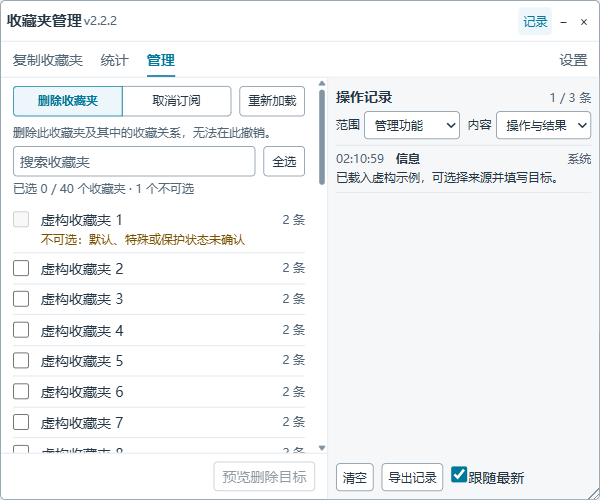
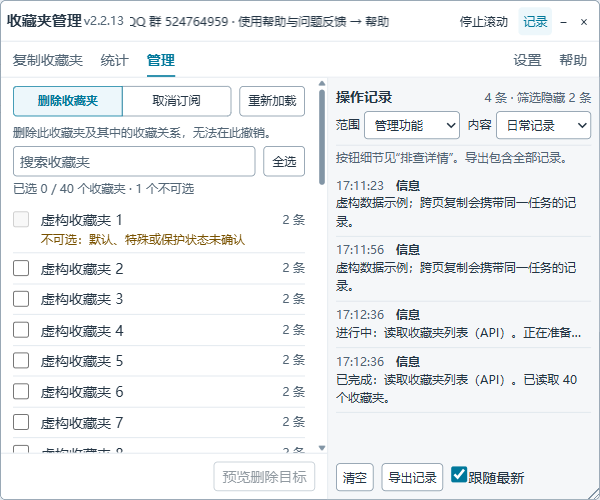
docs: prepare 2.2.13 release notes and refresh fictional previews

diff --git a/CHANGELOG.md b/CHANGELOG.md
@@ -1,40 +1,21 @@
 # 更新日志
 
-## 2.2.13（本地开发版，未发布）
+## 2.2.13
 
-- 顶部提示条按钮改为“停止滚动 / 继续滚动”，无障碍说明明确其控制顶部提示。
-- 更新贡献指南：从 develop 开发与提交 PR，说明产品提交的发布选择、验证步骤和真实账号测试边界。
+本次整合 2.1.2 之后的产品改进；中间本地迭代未单独发布。线上可安装版本以 Greasy Fork 页面为准。
 
-## 2.2.12（本地开发版，未发布）
+- 增加所选收藏夹/订阅的统计，包含视频名称、链接、作者、时长、重复次数与来源收藏夹；明细可搜索、分页并导出完整已读结果。
+- 支持网页逐页统计或 API 读取；显示覆盖范围、已读数量与平台标称总数的差异，单夹不可读仍继续其他选中项。
+- 增加删除收藏夹和取消订阅，按类型与 ID 核对目标，逐项执行；一次性预览与确认，失败或结果未知时停止。支持身份可确认的失效订阅，重名条目显示标识。
+- 重构紧凑面板：复制、统计、管理、设置、帮助分别展示；统一搜索、全选和计数，保留独立选择与滚动位置。设置切换方式保留已加载列表，重新确认管理目标。
+- 列表/统计、复制、创建和管理可分别选择网页或 API；任务固定所选方式，不自动切换或重试。
+- 跨页复制保留任务关联与操作记录，刷新后保留同标签页/账号的记录；日常记录与排查详情分开，导出包含全部保留记录。
+- 修复旧版复制成功提示识别、原生删除菜单、空收藏夹新建入口、订阅列表自动展开/分页、新版总页数识别与分页内容等待。
+- 自己的空间、未登录及未知来源禁用复制，执行层同步检查；阻止重复任务、并发和账号/空间/来源变化后的继续提交。
+- 修复窗口缩放与最小化恢复，增加 QQ 群提示和帮助；顶部提示使用“停止滚动 / 继续滚动”，支持悬停、聚焦暂停及减少动态效果。
+- 更新开发贡献与发布流程，产品源码、测试及构建产物一起交付。
 
-- 自己的空间、未登录及未知来源禁用复制，执行层同步校验；阻止重复任务、并发和账号/空间/来源变化后的继续提交，保留跨页目标准备。
-- 顶部 QQ 群提示支持暂停与减少动态效果，增加第五个“帮助”面板。
-- 统计保留视频名称、链接、作者、时长、出现次数与来源收藏夹；明细可搜索并分页，导出完整已读结果。
-- 网页统计和复制共用旧版/新版分页，修复新版数字总页数识别、从中间页开始以及页码先于内容更新的问题。
-- 平台标称总数与实际返回不同时明确展示差额；单个收藏夹不可读仍统计其他选中项。
-- 149 项测试与构建通过；新版真实账号仅做只读验证，旧版真实操作及油猴沙箱仍未验证。没有推送或发布。
-
-## 2.2.2（本地开发版，未发布）
-
-- 刷新后保留当前标签页、当前账号的操作记录；记住面板位置、大小、记录栏开关和操作设置。
-- “设置”成为第四个普通面板，分别选择列表/统计、复制、创建和管理的网页或 API 流程；任务固定所选方式，结果未知时不自动切换或重试。
-- 收起记录栏时缩小外围窗口，保留任务区域；增加右下角拖拽柄，修复缩小后拉不大及最小化提示不更新。
-- 记录筛选增加“范围”“内容”标签和下拉箭头，调整窄屏排列。
-- 区分收藏夹与合集订阅，完整分页；失效内容不再阻止 API 退订，未知所有者如实显示。网页无法确认失效条目 ID 时提示显式选择 API。
-- 删除说明改为“删除此收藏夹及其中的收藏关系，无法在此撤销。”
-
-## 2.2.1（本地开发版，未发布）
-
-- 默认窗口调整为600×500，恢复紧凑侧边记录；范围改为直接切换按钮，复制、统计、管理各自保留状态和选择。
-- 跨页复制沿用任务 ID 和诊断记录，未确认的提交显示“待核对”，停止后续任务。
-
-## 此前工作台迭代（未发布）
-
-- 重构为 640px 紧凑工作台，桌面默认显示侧边日志，窄屏将记录移到底部；列表单独滚动、操作栏固定。
-- 复制、统计、管理统一搜索、全选、取消全选和选择计数；仅批选匹配且可选项目，明确提示筛选外的已选目标。
-- 删除重复标题、冗长说明和列表中的常驻身份串；破坏操作在最终确认完整显示 ID、所有者、数量及后果。
-- 标题显示开发版本，构建校验包版本与运行时版本一致，避免继续以 2.1.2 标识开发改动。
-- 包含此前本地新增的进度反馈、有限日志、只读所选范围统计、一次性确认的删除和退订；真实删除/退订仍仅完成合成验证。
+验证：149 项自动测试与构建通过。真实账号验证涵盖新版只读列表/逐页统计对照，以及此前明确授权的临时夹新建/删除；真实复制、退订、当前旧版页面、油猴 GM 沙箱和自动跨页恢复仍未完整验证，详见管理功能文档。
 
 ## 2.1.2（2026-10-18）
 

diff --git a/README.md b/README.md
@@ -4,7 +4,7 @@ QQ群：[524764959（扫码加入）](#qq-group) · 邮箱：[ljx.1024@outlook.c
 
 批量把他人公开收藏夹的视频复制到自己的收藏夹，适配旧版个人空间与新版 VUI 收藏页。
 
-本地版本 **2.2.13** 增加复制边界检查、QQ 群提示与帮助面板，统计支持视频名称、作者、时长、来源收藏夹等明细，以及网页逐页读取。自己的空间可统计和管理，复制请前往他人的收藏页。详见 [管理功能与验证范围](docs/management.md)。尚未发布到 Greasy Fork；真实账号只做读取验证。
+版本 **2.2.13** 支持批量复制、所选范围统计和收藏夹管理，提供独立操作方式设置、QQ 群提示与帮助面板。统计包含视频名称、作者、时长、来源收藏夹等明细，也可用网页逐页读取。自己的空间可统计和管理，复制请前往他人的收藏页。详见 [管理功能与验证范围](https://github.com/leida1024/bilibili-favs-manage/blob/master/docs/management.md)。
 
 ## 界面预览
 
@@ -18,13 +18,13 @@ QQ群：[524764959（扫码加入）](#qq-group) · 邮箱：[ljx.1024@outlook.c
 2. 从 [Greasy Fork 安装脚本](https://greasyfork.org/zh-CN/scripts/487232)，确认脚本已启用。
 3. 登录 B 站，打开要复制的用户空间，进入「收藏」。
 
-**2.1.2 已发布到 Greasy Fork**。旧用户可在 Tampermonkey 中检查更新，或通过上方安装链接更新，然后刷新收藏页。请关闭重复安装的旧脚本。
+安装链接中的版本以 Greasy Fork 页面显示为准。旧用户可在 Tampermonkey 中检查更新，或通过上方安装链接更新，然后刷新收藏页。请关闭重复安装的旧脚本。
 
 ## 使用
 
 1. 在浮动面板左侧勾选一个或多个「源收藏夹」。
 2. 填写对应的「目标收藏夹」名称，默认与源收藏夹同名，并检查任务列表。
-3. 点击底部复制按钮，在固定状态区查看进度。本地开发版默认在右侧显示操作记录，窄屏移到底部；标题栏可收起记录。复制、统计和管理均可搜索、全选或取消全选，筛选外已选项仍会执行并有文字提示。
+3. 点击底部复制按钮，在固定状态区查看进度。面板默认在右侧显示操作记录，窄屏移到底部；标题栏可收起记录。复制、统计和管理均可搜索、全选或取消全选，筛选外已选项仍会执行并有文字提示。
 4. 复制他人的收藏夹时，脚本会先前往自己的收藏页，准备目标收藏夹，再返回源页面复制。等待自动跳转和分页完成。
 
 已有同名目标会直接复用；名称首尾空白会被去掉，内部空格保留。失败或创建结果未确认时会停止，请核对目标收藏夹的实际结果后再重试。

diff --git a/docs/management.md b/docs/management.md
@@ -1,6 +1,6 @@
-# Local management build
+# Management features and verification scope
 
-These capabilities are in local build **2.2.13**, visible in the panel title. Versions use ordinary numeric components. The published Greasy Fork version remains 2.1.2 until a separately reviewed release.
+This document describes version **2.2.13**, visible in the panel title. Versions use ordinary numeric components. The installation link's available version is shown on Greasy Fork; publication follows review and merge to master, followed by a successful webhook sync.
 
 ## Copy and diagnostics
 
